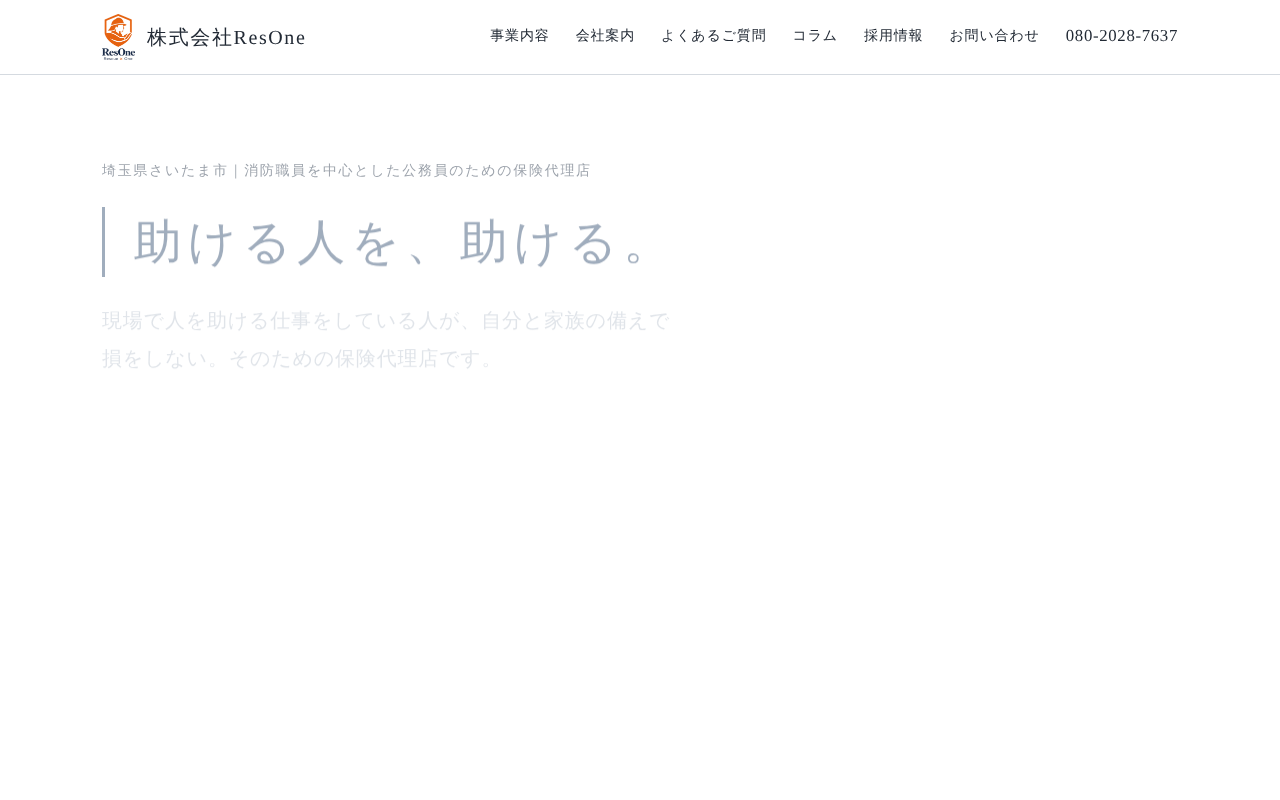
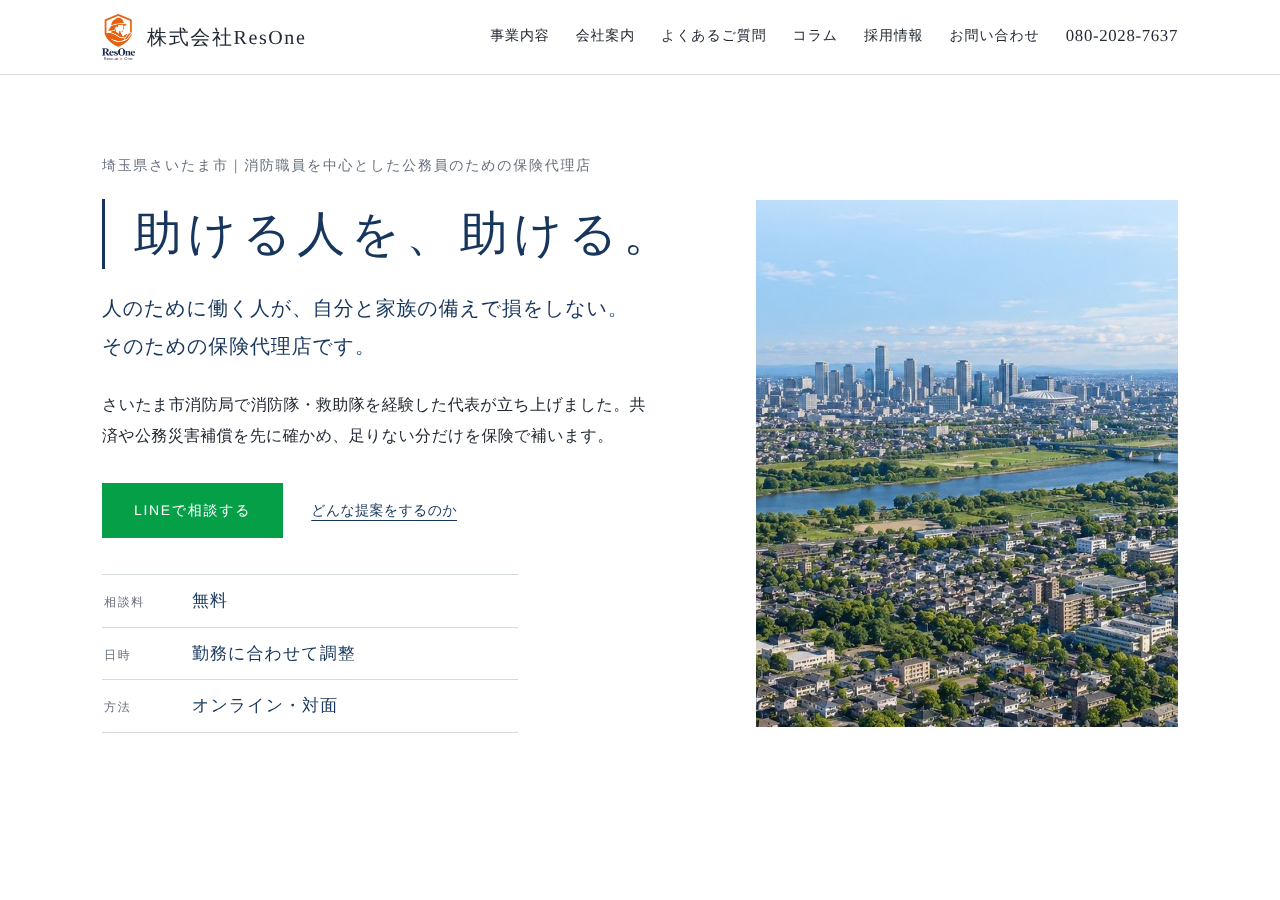
トップ冒頭の写真を加工なしの航空写真に変更
Claude-Session: https://claude.ai/code/session_013cdQPzXo8Fqih8xj5kwKNA

diff --git a/index.html b/index.html
@@ -69,7 +69,7 @@
           </dl>
         </div>
       </div>
-      <figure class="fv-img"><img src="img/hero.jpg" alt="街並み" width="1600" height="922"></figure>
+      <figure class="fv-img"><img src="img/hero-city.jpg" alt="街並み" width="1600" height="922"></figure>
     </div>
   </section>
 
